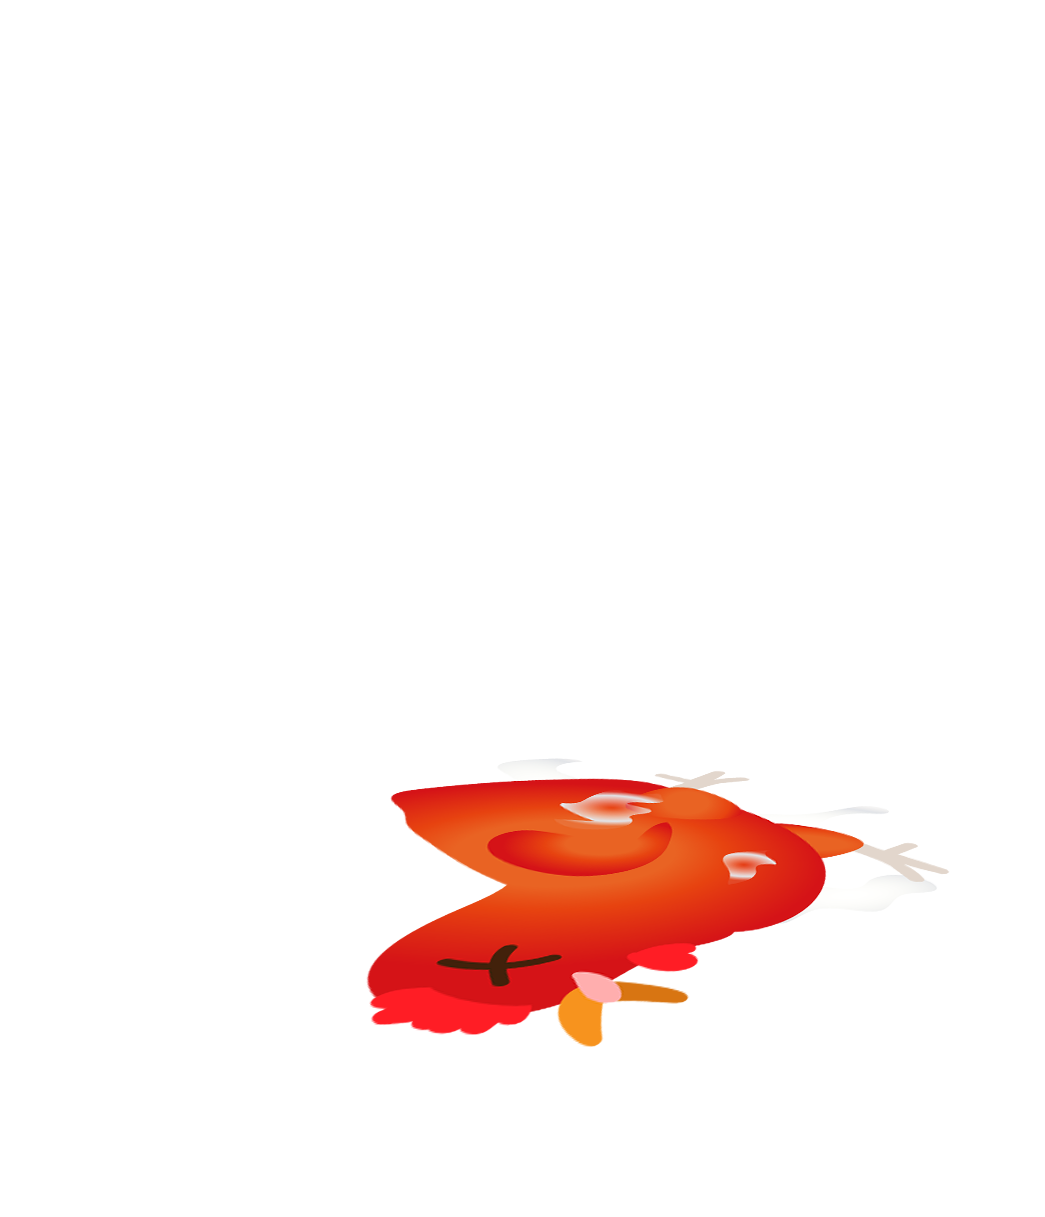
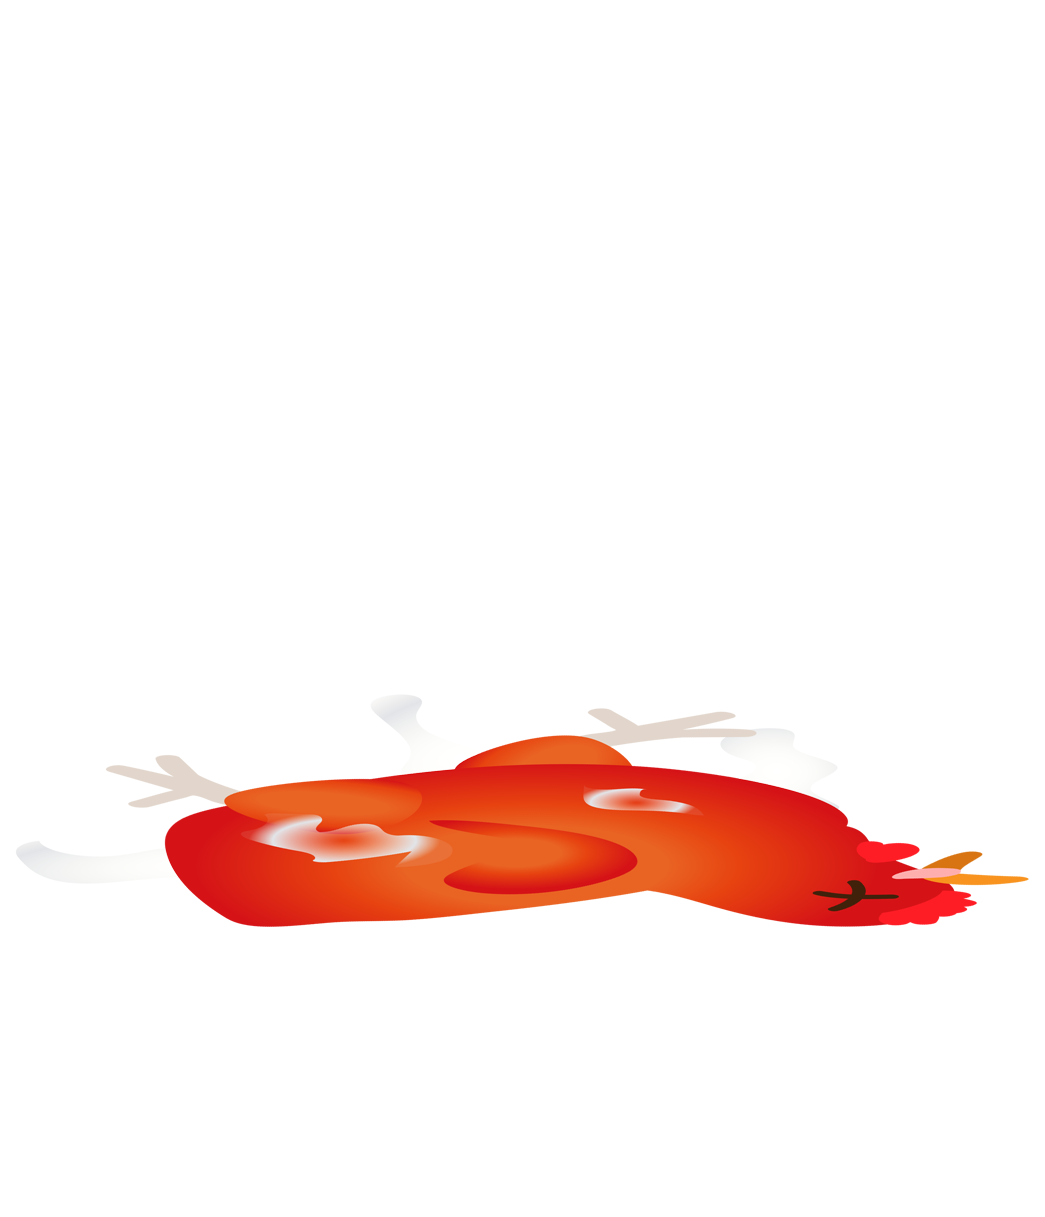
New Enemy, Endboss fight

Changed region(s): [[0.0919, 0.562, 0.9799, 0.8743], [0.3675, 0.562, 0.3981, 0.5933]]

diff --git a/models/endboss.class.js b/models/endboss.class.js
@@ -1,4 +1,4 @@
-import { MovableObject } from './index.js';
+import { MovableObject, World } from './index.js';
 
 export class Endboss extends MovableObject {
     height = 400;
@@ -12,9 +12,9 @@ export class Endboss extends MovableObject {
         bottom: 13,
     };
 
-    alive = true;
-
     deadImages = 0;
+    hurtImages = 0;
+    attackTimer = 0;
 
     IMAGES_WALKING = Array.from({ length: 4 }, (_, index) => {
         return `img/4_enemie_boss_chicken/1_walk/G${index + 1}.png`;
@@ -36,6 +36,13 @@ export class Endboss extends MovableObject {
         return `img/4_enemie_boss_chicken/5_dead/G${index + 24}.png`;
     });
 
+    alive = true;
+    startEndBattle = false;
+    speed = 10;
+
+    /** @type {World} */
+    world;
+
     constructor() {
         super();
         this.loadImage(this.IMAGES_WALKING[0]);
@@ -49,36 +56,39 @@ export class Endboss extends MovableObject {
     }
 
     animate() {
-        this.intervalIds.push(            
-            setInterval(() => {
-                if (!this.isDead()) {
-                    this.playAnimation(this.IMAGES_ALERTNESS);
-                    this.currentImage++;
-                } else {
-                    this.playAnimation(this.IMAGES_DEAD);
-                    this.deadImages++;
-                    if (this.deadImages === this.IMAGES_DEAD.length) {
-                        this.stopAnimate();
-                        // this.loadImage('img/3_enemies_chicken/chicken_normal/2_dead/dead.png', this.x);
-                    }
-                }
-            }, 400)
-        );
-
         this.intervalIds.push(
             setInterval(() => {
-                if (this.isHurt()) {
-                    console.log('Endboss Hurt');
-                    this.playAnimation(this.IMAGES_HURT);
+                if (!this.startEndBattle) {
+                    this.playAnimation(this.IMAGES_ALERTNESS);
                     this.currentImage++;
+                    if (this.world.character.x > 1900) {
+                        this.startEndBattle = true;
+                    }
+                } else {
+                    if (this.isDead()) {
+                        this.playAnimation(this.IMAGES_DEAD);
+                        this.currentImage++;
+                        this.deadImages++;
+                        if (this.deadImages === this.IMAGES_DEAD.length * 2) {
+                            this.stopAnimate();
+                        }
+                    } else if (this.isHurt()) {
+                        this.playAnimation(this.IMAGES_HURT);
+                        this.currentImage++;
+                    } else {
+                        this.playAnimation(this.IMAGES_WALKING);
+                        this.currentImage++;
+                        this.moveLeft();
+                    }
                 }
-            }, 400)
+            }, 200)
         );
     }
 
     stopAnimate() {
         this.intervalIds.forEach(clearInterval);
-        // this.alive ? (this.y += 100) : '';
-        this.loadImage('img/4_enemie_boss_chicken/5_dead/G26.png', this.x);
+        this.alive ? (this.y += 90) : '';
+        this.alive = false;
+        this.loadImage('img/4_enemie_boss_chicken/5_dead/G27.png', this.x);
     }
 }

diff --git a/models/world.class.js b/models/world.class.js
@@ -14,7 +14,7 @@ import {
 export class World {
     // level = level1;
     // endboss = this.level.endboss[0];
-    
+
     keyboard;
     canvas;
     ctx;
@@ -49,6 +49,7 @@ export class World {
 
     setWorld() {
         this.character.world = this;
+        this.endboss.world = this;
     }
 
     run() {
@@ -56,9 +57,11 @@ export class World {
             // Check collision
             this.checkCollisions();
             this.checkCollisionsItems();
-            this.checkThrowObjects();
             this.fullScreenCheck();
-        }, 150);
+        }, 100);
+        setInterval(() => {
+            this.checkThrowObjects();
+        }, 250);
     }
 
     checkThrowObjects() {
@@ -77,7 +80,7 @@ export class World {
             this.keyboard.W = false;
         }
     }
-    
+
     isCanvasInFullscreen() {
         return document.fullscreenElement === this.canvas;
     }
@@ -98,17 +101,19 @@ export class World {
                     );
                 }
             });
-            if (this.character.isColliding(enemy) && this.character.isAboveGround() && this.character.fallingDown) {
-                enemy.stopAnimate();
+            if (this.character.isColliding(enemy) && enemy.alive && this.character.isAboveGround() && this.character.fallingDown) {
                 enemy.alive = false;
+                enemy.stopAnimate();
             }
             if (this.character.isColliding(enemy) && !this.character.isDead() && enemy.alive) {
-                // When damage and character sleeps wake up
-                this.character.idleCounter = 0;
-                this.character.hit();
+                this.character.damagedCharacter();
                 this.statusBarHealth.setPercentage(this.character.energy, this.statusBarHealth.IMAGES_HEALTH);
             }
         });
+        if (this.character.isColliding(this.endboss) && this.endboss.alive) {
+            this.character.damagedCharacter();
+            this.statusBarHealth.setPercentage(this.character.energy, this.statusBarHealth.IMAGES_HEALTH);
+        }
     }
 
     checkCollisionsItems() {
@@ -146,7 +151,7 @@ export class World {
         this.addToMapStatusBar(this.statusBarHealth);
         this.addToMapStatusBar(this.statusBarCoin);
         this.addToMapStatusBar(this.statusBarBottle);
-        this.character.x > 1700 ? this.addToMapStatusBar(this.statusBarHealthEndboss) : '';
+        this.character.x > 1900 || this.endboss.startEndBattle ? this.addToMapStatusBar(this.statusBarHealthEndboss) : '';
 
         this.ctx?.translate(this.camera_x, 0);
 

diff --git a/models/chicken-small.class.js b/models/chicken-small.class.js
@@ -1,9 +1,9 @@
 import { MovableObject } from './index.js';
 
-export class Chicken extends MovableObject {
-    height = 90;
-    width = 90;
-    y = 335;
+export class ChickenSmall extends MovableObject {
+    height = 60;
+    width = 60;
+    y = 365;
 
     offset = {
         left: 0,
@@ -13,7 +13,7 @@ export class Chicken extends MovableObject {
     };
 
     IMAGES_WALKING = Array.from({ length: 3 }, (_, index) => {
-        return `img/3_enemies_chicken/chicken_normal/1_walk/${index + 1}_w.png`;
+        return `img/3_enemies_chicken/chicken_small/1_walk/${index + 1}_w.png`;
     });
 
     /**
@@ -22,10 +22,10 @@ export class Chicken extends MovableObject {
      */
     constructor(start_x = 200) {
         super();
-        this.loadImage('img/3_enemies_chicken/chicken_normal/1_walk/1_w.png');
+        this.loadImage('img/3_enemies_chicken/chicken_small/1_walk/1_w.png');
         this.loadImages(this.IMAGES_WALKING);
         this.x = start_x + Math.random() * 2200; // Zahl zwischen 200 und 700
-        this.speed = 0.15 + Math.random() * 0.2;
+        this.speed = 0.35 + Math.random() * 0.2;
 
         this.animate();
     }
@@ -48,6 +48,6 @@ export class Chicken extends MovableObject {
     stopAnimate() {
         this.intervalIds.forEach(clearInterval);
         this.alive ? this.y += 10 : ''; 
-        this.loadImage('img/3_enemies_chicken/chicken_normal/2_dead/dead.png', this.x);
+        this.loadImage('img/3_enemies_chicken/chicken_small/2_dead/dead.png', this.x);
      }
 }

diff --git a/levels/level1.js b/levels/level1.js
@@ -1,4 +1,6 @@
-import { BackGroundObject, Chicken, Cloud, Level, Endboss, Bottle, Coin } from '../models/index.js';
+import { BackGroundObject, Chicken, Cloud, Level, Endboss, Bottle, Coin, ChickenSmall } from '../models/index.js';
+
+//TODO: Funktionen ausgliedern in eigene Klasse !
 
 /**
  * @description Structure of level architecture
@@ -14,27 +16,16 @@ export const level1 = new Level(
         .flat(),
     [
         new Chicken(),
+        new ChickenSmall(),
+        new ChickenSmall(),
         new Chicken(),
         new Chicken(),
-        new Chicken(),
-        new Chicken(),
-        new Chicken(),
-        new Chicken(),
-        new Chicken(),
+        new ChickenSmall(),
         new Chicken(),
     ],
-    [
-        new Cloud(-400),
-        new Cloud(1000),
-        new Cloud(2000),
-        new Cloud(3000)
-    ],
-    [
-        new Endboss()
-    ],
-    [
-        new Bottle(400)
-    ],
+    [new Cloud(-400), new Cloud(1000), new Cloud(2000), new Cloud(3000)],
+    [new Endboss()],
+    [new Bottle(400)],
     []
 );
 

diff --git a/models/character.class.js b/models/character.class.js
@@ -1,4 +1,4 @@
-import { World, MovableObject } from "./index.js";
+import { World, MovableObject } from './index.js';
 
 export class Character extends MovableObject {
     height = 300;
@@ -96,7 +96,7 @@ export class Character extends MovableObject {
             if (this.world.keyboard.IDLE && !this.isDead()) {
                 // IDLE & LONG_IDLE animation
                 this.idleCounter += 1;
-                this.idleCounter == 20 ? (this.currentImage = 0) : this.currentImage++;
+                this.idleCounter == 30 ? (this.currentImage = 0) : this.currentImage++;
                 if (this.idleCounter > this.goInSleepMode) {
                     this.playAnimation(this.IMAGES_LONG_IDLE);
                 } else {
@@ -104,5 +104,11 @@ export class Character extends MovableObject {
                 }
             }
         }, 200);
+    }
+
+    damagedCharacter() {
+        // When damage and character sleeps wake up
+        this.idleCounter = 0;
+        this.hit();
     }
 }

diff --git a/models/movable-object.class.js b/models/movable-object.class.js
@@ -11,6 +11,8 @@ export class MovableObject extends DrawableObject {
     lastHit = 0;
     fallingDown = false;
 
+    alive = true;
+
     constructor() {
         super();
     }
@@ -25,7 +27,7 @@ export class MovableObject extends DrawableObject {
                 }
                 if (this.fallingDown && this.y > 120) {
                     this.fallingDown = false;
-                } 
+                }
             }
         }, 1000 / 25);
     }
@@ -57,8 +59,8 @@ export class MovableObject extends DrawableObject {
     }
 
     /**
-     * 
-     * @param {number} damage 
+     *
+     * @param {number} damage
      */
     hit(damage = 5) {
         // The energy must not fall below 0
@@ -85,7 +87,7 @@ export class MovableObject extends DrawableObject {
     isHurt() {
         let timePassed = new Date().getTime() - this.lastHit;
         timePassed /= 1000;
-        return timePassed < 1;
+        return timePassed < 0.5;
     }
 
     /**

diff --git a/models/throwable-object.class.js b/models/throwable-object.class.js
@@ -1,6 +1,7 @@
 import { MovableObject } from './index.js';
 
 export class ThrowableObject extends MovableObject {
+
     IMAGES_BOTTLE_ROTATION = Array.from({ length: 4 }, (_, index) => {
         return `img/6_salsa_bottle/bottle_rotation/${index + 1}_bottle_rotation.png`;
     });
@@ -21,8 +22,8 @@ export class ThrowableObject extends MovableObject {
         this.loadImages(this.IMAGES_BOTTLE_SPLASH);
         this.x = x;
         this.y = y;
-        this.width = 60;
-        this.height = 40;
+        this.width = 80;
+        this.height = 60;
         this.throw();
         this.animateBottle();
     }

diff --git a/models/drawable-object.class.js b/models/drawable-object.class.js
@@ -1,4 +1,4 @@
-import { Character, Chicken, Endboss, ThrowableObject, Bottle, Coin } from './index.js';
+import { Character, Chicken, Endboss, ThrowableObject, Bottle, Coin, ChickenSmall } from './index.js';
 
 export class DrawableObject {
     x = 50;
@@ -67,6 +67,7 @@ export class DrawableObject {
         if (
             this instanceof Character ||
             this instanceof Chicken ||
+            this instanceof ChickenSmall ||
             this instanceof ThrowableObject ||
             this instanceof Endboss ||
             this instanceof Bottle ||

diff --git a/models/index.js b/models/index.js
@@ -10,6 +10,7 @@ import { Coin } from './coin.class.js';
 import { BackGroundObject } from './background-object.class.js';
 import { Character } from './character.class.js';
 import { Chicken } from './chicken.class.js';
+import { ChickenSmall } from './chicken-small.class.js';
 import { World } from './world.class.js';
 import { Cloud } from './cloud.class.js';
 import { Keyboard } from './keyboard.class.js';
@@ -23,6 +24,7 @@ export {
     Cloud,
     BackGroundObject,
     Chicken,
+    ChickenSmall,
     World,
     Keyboard,
     Level,

diff --git a/models/status-bar-bottle.class.js b/models/status-bar-bottle.class.js
@@ -2,7 +2,7 @@ import { StatusBar } from './index.js';
 
 export class StatusBarBottle extends StatusBar {
     IMAGES_BOTTLE = Array.from({ length: 6 }, (_, index) => {
-        return `img/7_statusbars/1_statusbar/3_statusbar_bottle/green/${index * 20}.png`;
+        return `img/7_statusbars/1_statusbar/3_statusbar_bottle/blue/${index * 20}.png`;
     });
 
     levelStatusBar = 0;

diff --git a/models/status-bar-coin.class.js b/models/status-bar-coin.class.js
@@ -2,7 +2,7 @@ import { StatusBar } from './index.js';
 
 export class StatusBarCoin extends StatusBar {
     IMAGES_COIN = Array.from({ length: 6 }, (_, index) => {
-        return `img/7_statusbars/1_statusbar/1_statusbar_coin/green/${index * 20}.png`;
+        return `img/7_statusbars/1_statusbar/1_statusbar_coin/orange/${index * 20}.png`;
     });
 
     levelStatusBar = 0;
